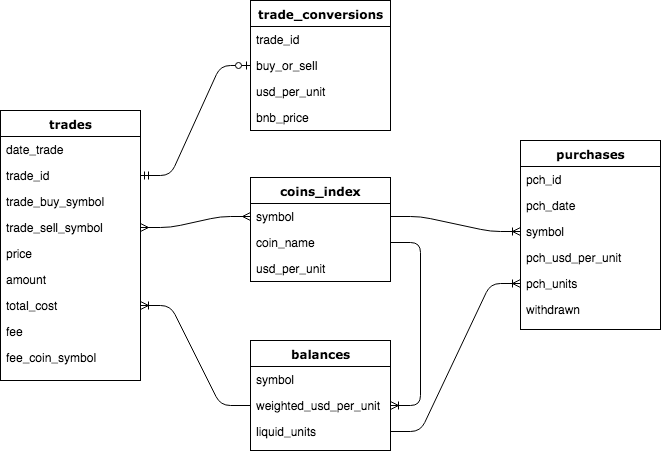
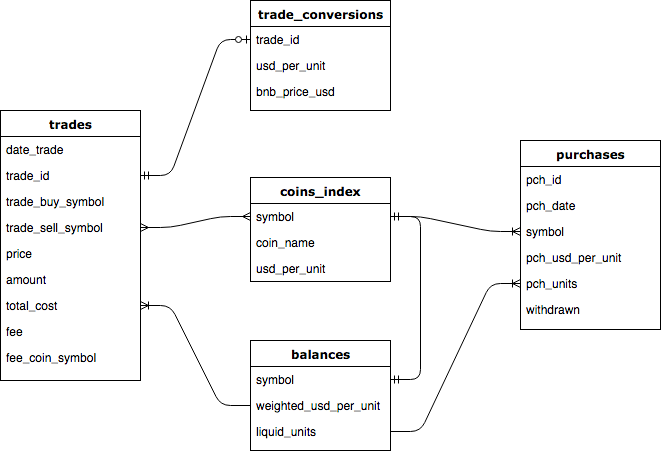
Replaced erd drawing.  Also removed every reference to the balances table's field from.  Also turned balance's table symbol into a primary key.  Hopefully that's not too many changes in a single commit.  ::crosses fingers::

diff --git a/scripts/balance2.js b/scripts/balance2.js
@@ -57,7 +57,6 @@ knex('trades')
       obj.symbol = singleCryptoSum;
       obj.weighted_usd_per_unit = null;
       obj.liquid_units = allCryptoSumsProper[singleCryptoSum];
-      obj.from = null;
 
       promiseArr.push(
         knex('balances')
@@ -123,7 +122,6 @@ knex('trades')
               symbol: insertIntoBalanceTable[index].symbol,
               weighted_usd_per_unit: insertIntoBalanceTable[index].weighted_usd_per_unit,
               liquid_units: insertIntoBalanceTable[index].liquid_units,
-              from: null
             })
         )
       }

diff --git a/migrations/20180703141638_balances.js b/migrations/20180703141638_balances.js
@@ -2,11 +2,10 @@ exports.up = (knex, Promise)=> {
   return knex.schema.dropTableIfExists('balances')
     .then(()=>{
       return knex.schema.createTable('balances',(table)=>{
-        table.string('symbol');
-        // table.foreign('symbol').references('coins_index.symbol');
+        table.string('symbol').primary();
+        table.foreign('symbol').references('coins_index.symbol');
         table.decimal('weighted_usd_per_unit')
         table.decimal('liquid_units',16,10);
-        table.string('from')
       })
     });
 }

diff --git a/scripts/updateBalancePurchase.js b/scripts/updateBalancePurchase.js
@@ -54,7 +54,6 @@ knex('purchases')
     obj.symbol = entry[0];
     obj.liquid_units = entry[1];
     obj.weighted_usd_per_unit = entry[2];
-    obj.from = 'purchases';
     allCryptoSums.push(obj);
   })
 
